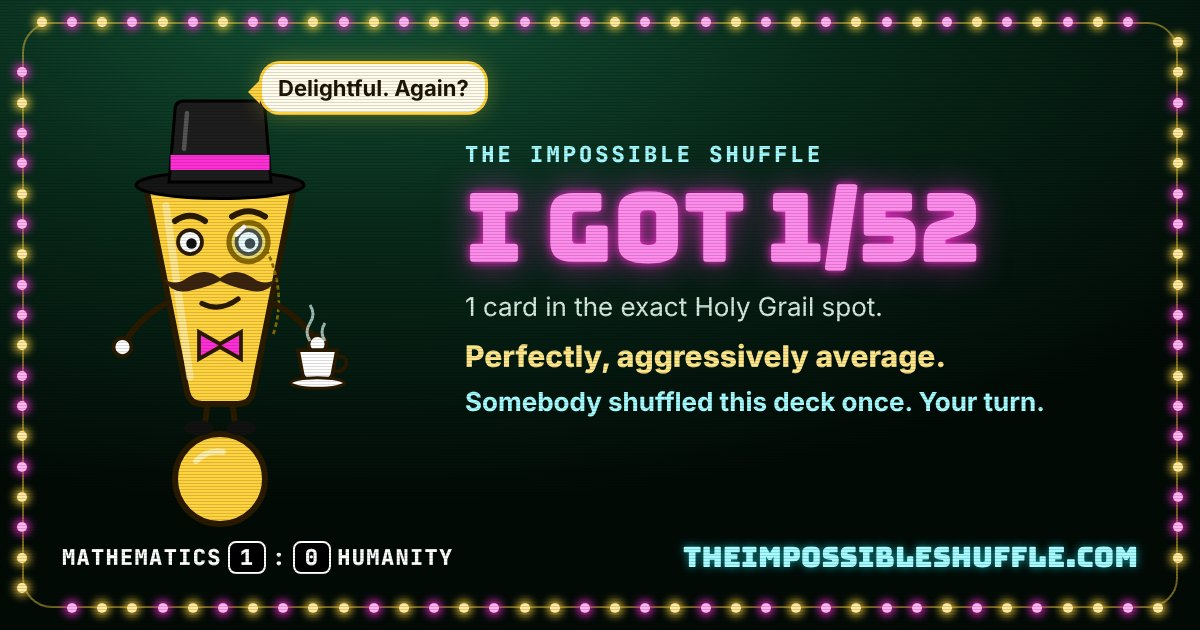
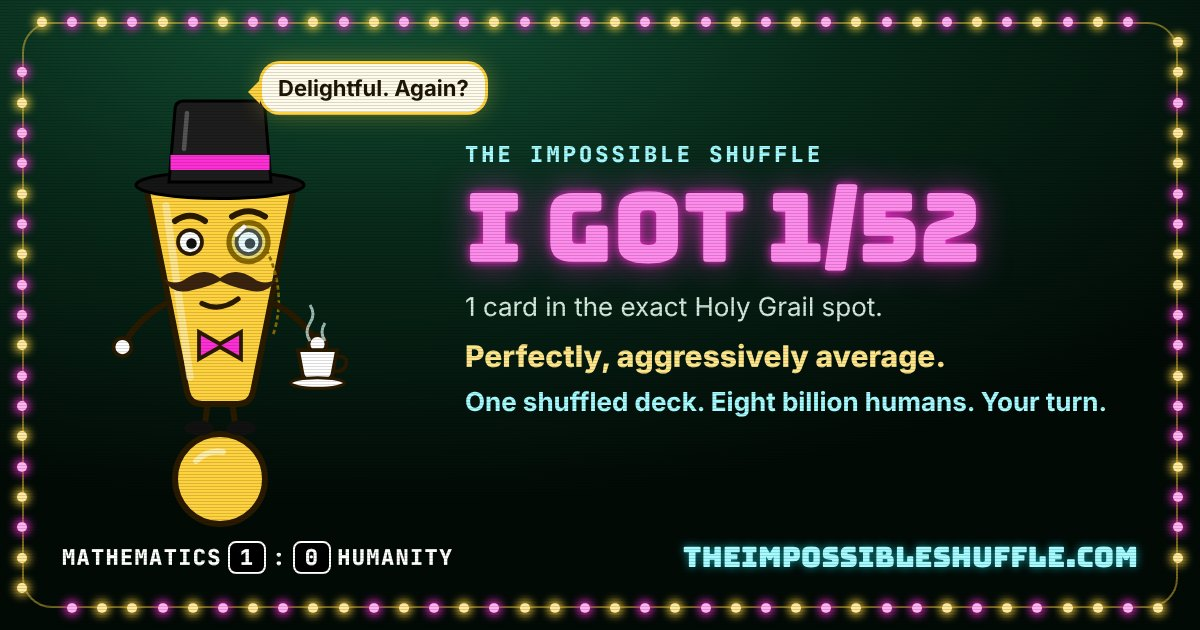
New hero line: 'One shuffled deck. Eight billion humans. One goal: shuffle it again, card for card.' (also in meta, link previews, manifest, share image and brag pages)
Claude-Session: https://claude.ai/code/session_01YJQDRu3Y672xQjHvmeDDE6

Changed region(s): [[0.37, 0.6032, 0.925, 0.6635]]

diff --git a/index.html b/index.html
@@ -4,13 +4,13 @@
 <meta charset="utf-8">
 <meta name="viewport" content="width=device-width, initial-scale=1, viewport-fit=cover">
 <title>The Impossible Shuffle</title>
-<meta name="description" content="The most impossible mission on the internet: somebody shuffled this deck once, and now humanity has to do it again, together. Odds: 1 in 52!.">
+<meta name="description" content="The most impossible mission on the internet. One shuffled deck, eight billion humans, one goal: shuffle it again, card for card. Odds: 1 in 52!.">
 <link rel="canonical" href="https://theimpossibleshuffle.com/">
 <meta name="theme-color" content="#03110a">
 <meta property="og:type" content="website">
 <meta property="og:url" content="https://theimpossibleshuffle.com/">
 <meta property="og:title" content="The Impossible Shuffle">
-<meta property="og:description" content="Somebody shuffled this deck once. Now humanity has to do it again, card for card. The odds are 1 in 52!, about 8 × 10⁶⁷. We're trying anyway.">
+<meta property="og:description" content="One shuffled deck. Eight billion humans. One goal: shuffle it again, card for card. The odds are 1 in 52!, about 8 × 10⁶⁷. Mathematics says no. We say: hold my cards.">
 <meta property="og:image" content="https://theimpossibleshuffle.com/og-image.png">
 <meta property="og:image:width" content="1200">
 <meta property="og:image:height" content="630">
@@ -18,7 +18,7 @@
 <meta name="twitter:card" content="summary_large_image">
 <meta name="twitter:image" content="https://theimpossibleshuffle.com/og-image.png">
 <meta name="twitter:title" content="The Impossible Shuffle">
-<meta name="twitter:description" content="Somebody shuffled this deck once. Now humanity has to do it again, card for card. The odds are 1 in 52!. We're trying anyway.">
+<meta name="twitter:description" content="One shuffled deck. Eight billion humans. One goal: shuffle it again, card for card. The odds are 1 in 52!. Mathematics says no. We say: hold my cards.">
 <link rel="icon" href="favicon.ico" sizes="16x16 32x32 48x48">
 <link rel="icon" type="image/png" sizes="32x32" href="favicon-32.png">
 <link rel="icon" type="image/png" sizes="16x16" href="favicon-16.png">
@@ -689,7 +689,7 @@
       <p id="phHello" class="ph-hello" hidden>👋 Welcome, Product Hunters. Your mission, should you choose to accept it: one shuffle. Mathematics expects nothing from you.</p>
       <p class="mono text-xs tracking-widest text-[#9fb5a8] mb-3">MISSION CONTROL · DEPARTMENT OF IMPOSSIBLE THINGS</p>
       <h1 class="font-display neon-pink text-[1.65rem] leading-tight sm:text-5xl lg:text-[3.4rem]">Welcome to Humankind's Most Impossible Mission</h1>
-      <p class="mt-5 max-w-4xl mx-auto text-base sm:text-lg text-[#cfe3d7]"><span class="block" style="text-wrap:balance">Somebody shuffled this deck once. Now humanity has to do it again.</span> <span class="block mt-1" style="text-wrap:balance">Mathematics says no. We say: hold my cards.</span></p>
+      <p class="mt-5 max-w-4xl mx-auto text-base sm:text-lg text-[#cfe3d7]"><span class="block" style="text-wrap:balance">One shuffled deck. Eight billion humans. One goal: shuffle it again, card for card.</span> <span class="block mt-1" style="text-wrap:balance">Mathematics says no. We say: hold my cards.</span></p>
       <button type="button" id="heroShuffle" class="shuffle-btn hero-cta mt-5"><span class="btn-main">Defy Mathematics</span><span class="btn-sub">Free · no sign-up</span></button>
       <p class="hero-trust">Odds: <b>1 in 8 × 10⁶⁷</b> per shuffle. Every shuffle is real and anyone can replay it, so even Mission Control can't fake a win.</p>
       <ol class="hero-steps" aria-label="The mission in three steps">

diff --git a/b/1/index.html b/b/1/index.html
@@ -2,20 +2,20 @@
 <html lang="en"><head><meta charset="utf-8">
 <meta name="viewport" content="width=device-width, initial-scale=1">
 <title>I got 1/52 on The Impossible Shuffle</title>
-<meta name="description" content="1 of 52 cards in their Holy Grail spot. Perfectly, aggressively average. Somebody shuffled this deck once. Now humanity has to do it again. Your turn.">
+<meta name="description" content="1 of 52 cards in their Holy Grail spot. Perfectly, aggressively average. One shuffled deck. Eight billion humans. One goal: shuffle it again, card for card. Your turn.">
 <meta name="robots" content="noindex">
 <meta property="og:type" content="website">
 <meta property="og:site_name" content="The Impossible Shuffle">
 <meta property="og:url" content="https://theimpossibleshuffle.com/b/1/">
 <meta property="og:title" content="I got 1/52 on The Impossible Shuffle">
-<meta property="og:description" content="1 of 52 cards in their Holy Grail spot. Perfectly, aggressively average. Somebody shuffled this deck once. Now humanity has to do it again. Your turn.">
+<meta property="og:description" content="1 of 52 cards in their Holy Grail spot. Perfectly, aggressively average. One shuffled deck. Eight billion humans. One goal: shuffle it again, card for card. Your turn.">
 <meta property="og:image" content="https://theimpossibleshuffle.com/b/1.jpg">
 <meta property="og:image:width" content="1200">
 <meta property="og:image:height" content="630">
 <meta property="og:image:alt" content="I got 1/52 on The Impossible Shuffle: Perfectly, aggressively average.">
 <meta name="twitter:card" content="summary_large_image">
 <meta name="twitter:title" content="I got 1/52 on The Impossible Shuffle">
-<meta name="twitter:description" content="1 of 52 cards in their Holy Grail spot. Perfectly, aggressively average. Somebody shuffled this deck once. Now humanity has to do it again. Your turn.">
+<meta name="twitter:description" content="1 of 52 cards in their Holy Grail spot. Perfectly, aggressively average. One shuffled deck. Eight billion humans. One goal: shuffle it again, card for card. Your turn.">
 <meta name="twitter:image" content="https://theimpossibleshuffle.com/b/1.jpg">
 <script>var r = /[?&]r=([a-z0-9]{8,16})/.exec(location.search); location.replace('/?ref=brag' + (r ? '&r=' + r[1] : '') + location.hash);</script>
 </head><body style="background:#03110a;color:#d7eadf;font-family:system-ui;text-align:center;padding:3rem">

diff --git a/b/2/index.html b/b/2/index.html
@@ -2,20 +2,20 @@
 <html lang="en"><head><meta charset="utf-8">
 <meta name="viewport" content="width=device-width, initial-scale=1">
 <title>I got 2/52 on The Impossible Shuffle</title>
-<meta name="description" content="2 of 52 cards in their Holy Grail spot. Mild statistical flirtation. Somebody shuffled this deck once. Now humanity has to do it again. Your turn.">
+<meta name="description" content="2 of 52 cards in their Holy Grail spot. Mild statistical flirtation. One shuffled deck. Eight billion humans. One goal: shuffle it again, card for card. Your turn.">
 <meta name="robots" content="noindex">
 <meta property="og:type" content="website">
 <meta property="og:site_name" content="The Impossible Shuffle">
 <meta property="og:url" content="https://theimpossibleshuffle.com/b/2/">
 <meta property="og:title" content="I got 2/52 on The Impossible Shuffle">
-<meta property="og:description" content="2 of 52 cards in their Holy Grail spot. Mild statistical flirtation. Somebody shuffled this deck once. Now humanity has to do it again. Your turn.">
+<meta property="og:description" content="2 of 52 cards in their Holy Grail spot. Mild statistical flirtation. One shuffled deck. Eight billion humans. One goal: shuffle it again, card for card. Your turn.">
 <meta property="og:image" content="https://theimpossibleshuffle.com/b/2.jpg">
 <meta property="og:image:width" content="1200">
 <meta property="og:image:height" content="630">
 <meta property="og:image:alt" content="I got 2/52 on The Impossible Shuffle: Mild statistical flirtation.">
 <meta name="twitter:card" content="summary_large_image">
 <meta name="twitter:title" content="I got 2/52 on The Impossible Shuffle">
-<meta name="twitter:description" content="2 of 52 cards in their Holy Grail spot. Mild statistical flirtation. Somebody shuffled this deck once. Now humanity has to do it again. Your turn.">
+<meta name="twitter:description" content="2 of 52 cards in their Holy Grail spot. Mild statistical flirtation. One shuffled deck. Eight billion humans. One goal: shuffle it again, card for card. Your turn.">
 <meta name="twitter:image" content="https://theimpossibleshuffle.com/b/2.jpg">
 <script>var r = /[?&]r=([a-z0-9]{8,16})/.exec(location.search); location.replace('/?ref=brag' + (r ? '&r=' + r[1] : '') + location.hash);</script>
 </head><body style="background:#03110a;color:#d7eadf;font-family:system-ui;text-align:center;padding:3rem">

diff --git a/b/3/index.html b/b/3/index.html
@@ -2,20 +2,20 @@
 <html lang="en"><head><meta charset="utf-8">
 <meta name="viewport" content="width=device-width, initial-scale=1">
 <title>I got 3/52 on The Impossible Shuffle</title>
-<meta name="description" content="3 of 52 cards in their Holy Grail spot. Mild statistical flirtation. Somebody shuffled this deck once. Now humanity has to do it again. Your turn.">
+<meta name="description" content="3 of 52 cards in their Holy Grail spot. Mild statistical flirtation. One shuffled deck. Eight billion humans. One goal: shuffle it again, card for card. Your turn.">
 <meta name="robots" content="noindex">
 <meta property="og:type" content="website">
 <meta property="og:site_name" content="The Impossible Shuffle">
 <meta property="og:url" content="https://theimpossibleshuffle.com/b/3/">
 <meta property="og:title" content="I got 3/52 on The Impossible Shuffle">
-<meta property="og:description" content="3 of 52 cards in their Holy Grail spot. Mild statistical flirtation. Somebody shuffled this deck once. Now humanity has to do it again. Your turn.">
+<meta property="og:description" content="3 of 52 cards in their Holy Grail spot. Mild statistical flirtation. One shuffled deck. Eight billion humans. One goal: shuffle it again, card for card. Your turn.">
 <meta property="og:image" content="https://theimpossibleshuffle.com/b/3.jpg">
 <meta property="og:image:width" content="1200">
 <meta property="og:image:height" content="630">
 <meta property="og:image:alt" content="I got 3/52 on The Impossible Shuffle: Mild statistical flirtation.">
 <meta name="twitter:card" content="summary_large_image">
 <meta name="twitter:title" content="I got 3/52 on The Impossible Shuffle">
-<meta name="twitter:description" content="3 of 52 cards in their Holy Grail spot. Mild statistical flirtation. Somebody shuffled this deck once. Now humanity has to do it again. Your turn.">
+<meta name="twitter:description" content="3 of 52 cards in their Holy Grail spot. Mild statistical flirtation. One shuffled deck. Eight billion humans. One goal: shuffle it again, card for card. Your turn.">
 <meta name="twitter:image" content="https://theimpossibleshuffle.com/b/3.jpg">
 <script>var r = /[?&]r=([a-z0-9]{8,16})/.exec(location.search); location.replace('/?ref=brag' + (r ? '&r=' + r[1] : '') + location.hash);</script>
 </head><body style="background:#03110a;color:#d7eadf;font-family:system-ui;text-align:center;padding:3rem">

diff --git a/b/6/index.html b/b/6/index.html
@@ -2,20 +2,20 @@
 <html lang="en"><head><meta charset="utf-8">
 <meta name="viewport" content="width=device-width, initial-scale=1">
 <title>I got 6/52 on The Impossible Shuffle</title>
-<meta name="description" content="6 of 52 cards in their Holy Grail spot. Statisticians are nervous. Somebody shuffled this deck once. Now humanity has to do it again. Your turn.">
+<meta name="description" content="6 of 52 cards in their Holy Grail spot. Statisticians are nervous. One shuffled deck. Eight billion humans. One goal: shuffle it again, card for card. Your turn.">
 <meta name="robots" content="noindex">
 <meta property="og:type" content="website">
 <meta property="og:site_name" content="The Impossible Shuffle">
 <meta property="og:url" content="https://theimpossibleshuffle.com/b/6/">
 <meta property="og:title" content="I got 6/52 on The Impossible Shuffle">
-<meta property="og:description" content="6 of 52 cards in their Holy Grail spot. Statisticians are nervous. Somebody shuffled this deck once. Now humanity has to do it again. Your turn.">
+<meta property="og:description" content="6 of 52 cards in their Holy Grail spot. Statisticians are nervous. One shuffled deck. Eight billion humans. One goal: shuffle it again, card for card. Your turn.">
 <meta property="og:image" content="https://theimpossibleshuffle.com/b/6.jpg">
 <meta property="og:image:width" content="1200">
 <meta property="og:image:height" content="630">
 <meta property="og:image:alt" content="I got 6/52 on The Impossible Shuffle: Statisticians are nervous.">
 <meta name="twitter:card" content="summary_large_image">
 <meta name="twitter:title" content="I got 6/52 on The Impossible Shuffle">
-<meta name="twitter:description" content="6 of 52 cards in their Holy Grail spot. Statisticians are nervous. Somebody shuffled this deck once. Now humanity has to do it again. Your turn.">
+<meta name="twitter:description" content="6 of 52 cards in their Holy Grail spot. Statisticians are nervous. One shuffled deck. Eight billion humans. One goal: shuffle it again, card for card. Your turn.">
 <meta name="twitter:image" content="https://theimpossibleshuffle.com/b/6.jpg">
 <script>var r = /[?&]r=([a-z0-9]{8,16})/.exec(location.search); location.replace('/?ref=brag' + (r ? '&r=' + r[1] : '') + location.hash);</script>
 </head><body style="background:#03110a;color:#d7eadf;font-family:system-ui;text-align:center;padding:3rem">

diff --git a/b/7/index.html b/b/7/index.html
@@ -2,20 +2,20 @@
 <html lang="en"><head><meta charset="utf-8">
 <meta name="viewport" content="width=device-width, initial-scale=1">
 <title>I got 7/52 on The Impossible Shuffle</title>
-<meta name="description" content="7 of 52 cards in their Holy Grail spot. Statisticians are nervous. Somebody shuffled this deck once. Now humanity has to do it again. Your turn.">
+<meta name="description" content="7 of 52 cards in their Holy Grail spot. Statisticians are nervous. One shuffled deck. Eight billion humans. One goal: shuffle it again, card for card. Your turn.">
 <meta name="robots" content="noindex">
 <meta property="og:type" content="website">
 <meta property="og:site_name" content="The Impossible Shuffle">
 <meta property="og:url" content="https://theimpossibleshuffle.com/b/7/">
 <meta property="og:title" content="I got 7/52 on The Impossible Shuffle">
-<meta property="og:description" content="7 of 52 cards in their Holy Grail spot. Statisticians are nervous. Somebody shuffled this deck once. Now humanity has to do it again. Your turn.">
+<meta property="og:description" content="7 of 52 cards in their Holy Grail spot. Statisticians are nervous. One shuffled deck. Eight billion humans. One goal: shuffle it again, card for card. Your turn.">
 <meta property="og:image" content="https://theimpossibleshuffle.com/b/7.jpg">
 <meta property="og:image:width" content="1200">
 <meta property="og:image:height" content="630">
 <meta property="og:image:alt" content="I got 7/52 on The Impossible Shuffle: Statisticians are nervous.">
 <meta name="twitter:card" content="summary_large_image">
 <meta name="twitter:title" content="I got 7/52 on The Impossible Shuffle">
-<meta name="twitter:description" content="7 of 52 cards in their Holy Grail spot. Statisticians are nervous. Somebody shuffled this deck once. Now humanity has to do it again. Your turn.">
+<meta name="twitter:description" content="7 of 52 cards in their Holy Grail spot. Statisticians are nervous. One shuffled deck. Eight billion humans. One goal: shuffle it again, card for card. Your turn.">
 <meta name="twitter:image" content="https://theimpossibleshuffle.com/b/7.jpg">
 <script>var r = /[?&]r=([a-z0-9]{8,16})/.exec(location.search); location.replace('/?ref=brag' + (r ? '&r=' + r[1] : '') + location.hash);</script>
 </head><body style="background:#03110a;color:#d7eadf;font-family:system-ui;text-align:center;padding:3rem">

diff --git a/b/8/index.html b/b/8/index.html
@@ -2,20 +2,20 @@
 <html lang="en"><head><meta charset="utf-8">
 <meta name="viewport" content="width=device-width, initial-scale=1">
 <title>I got 8/52 on The Impossible Shuffle</title>
-<meta name="description" content="8 of 52 cards in their Holy Grail spot. Statisticians are nervous. Somebody shuffled this deck once. Now humanity has to do it again. Your turn.">
+<meta name="description" content="8 of 52 cards in their Holy Grail spot. Statisticians are nervous. One shuffled deck. Eight billion humans. One goal: shuffle it again, card for card. Your turn.">
 <meta name="robots" content="noindex">
 <meta property="og:type" content="website">
 <meta property="og:site_name" content="The Impossible Shuffle">
 <meta property="og:url" content="https://theimpossibleshuffle.com/b/8/">
 <meta property="og:title" content="I got 8/52 on The Impossible Shuffle">
-<meta property="og:description" content="8 of 52 cards in their Holy Grail spot. Statisticians are nervous. Somebody shuffled this deck once. Now humanity has to do it again. Your turn.">
+<meta property="og:description" content="8 of 52 cards in their Holy Grail spot. Statisticians are nervous. One shuffled deck. Eight billion humans. One goal: shuffle it again, card for card. Your turn.">
 <meta property="og:image" content="https://theimpossibleshuffle.com/b/8.jpg">
 <meta property="og:image:width" content="1200">
 <meta property="og:image:height" content="630">
 <meta property="og:image:alt" content="I got 8/52 on The Impossible Shuffle: Statisticians are nervous.">
 <meta name="twitter:card" content="summary_large_image">
 <meta name="twitter:title" content="I got 8/52 on The Impossible Shuffle">
-<meta name="twitter:description" content="8 of 52 cards in their Holy Grail spot. Statisticians are nervous. Somebody shuffled this deck once. Now humanity has to do it again. Your turn.">
+<meta name="twitter:description" content="8 of 52 cards in their Holy Grail spot. Statisticians are nervous. One shuffled deck. Eight billion humans. One goal: shuffle it again, card for card. Your turn.">
 <meta name="twitter:image" content="https://theimpossibleshuffle.com/b/8.jpg">
 <script>var r = /[?&]r=([a-z0-9]{8,16})/.exec(location.search); location.replace('/?ref=brag' + (r ? '&r=' + r[1] : '') + location.hash);</script>
 </head><body style="background:#03110a;color:#d7eadf;font-family:system-ui;text-align:center;padding:3rem">

diff --git a/b/9/index.html b/b/9/index.html
@@ -2,20 +2,20 @@
 <html lang="en"><head><meta charset="utf-8">
 <meta name="viewport" content="width=device-width, initial-scale=1">
 <title>I got 9/52 on The Impossible Shuffle</title>
-<meta name="description" content="9 of 52 cards in their Holy Grail spot. Statisticians are nervous. Somebody shuffled this deck once. Now humanity has to do it again. Your turn.">
+<meta name="description" content="9 of 52 cards in their Holy Grail spot. Statisticians are nervous. One shuffled deck. Eight billion humans. One goal: shuffle it again, card for card. Your turn.">
 <meta name="robots" content="noindex">
 <meta property="og:type" content="website">
 <meta property="og:site_name" content="The Impossible Shuffle">
 <meta property="og:url" content="https://theimpossibleshuffle.com/b/9/">
 <meta property="og:title" content="I got 9/52 on The Impossible Shuffle">
-<meta property="og:description" content="9 of 52 cards in their Holy Grail spot. Statisticians are nervous. Somebody shuffled this deck once. Now humanity has to do it again. Your turn.">
+<meta property="og:description" content="9 of 52 cards in their Holy Grail spot. Statisticians are nervous. One shuffled deck. Eight billion humans. One goal: shuffle it again, card for card. Your turn.">
 <meta property="og:image" content="https://theimpossibleshuffle.com/b/9.jpg">
 <meta property="og:image:width" content="1200">
 <meta property="og:image:height" content="630">
 <meta property="og:image:alt" content="I got 9/52 on The Impossible Shuffle: Statisticians are nervous.">
 <meta name="twitter:card" content="summary_large_image">
 <meta name="twitter:title" content="I got 9/52 on The Impossible Shuffle">
-<meta name="twitter:description" content="9 of 52 cards in their Holy Grail spot. Statisticians are nervous. Somebody shuffled this deck once. Now humanity has to do it again. Your turn.">
+<meta name="twitter:description" content="9 of 52 cards in their Holy Grail spot. Statisticians are nervous. One shuffled deck. Eight billion humans. One goal: shuffle it again, card for card. Your turn.">
 <meta name="twitter:image" content="https://theimpossibleshuffle.com/b/9.jpg">
 <script>var r = /[?&]r=([a-z0-9]{8,16})/.exec(location.search); location.replace('/?ref=brag' + (r ? '&r=' + r[1] : '') + location.hash);</script>
 </head><body style="background:#03110a;color:#d7eadf;font-family:system-ui;text-align:center;padding:3rem">

diff --git a/b/52/index.html b/b/52/index.html
@@ -2,20 +2,20 @@
 <html lang="en"><head><meta charset="utf-8">
 <meta name="viewport" content="width=device-width, initial-scale=1">
 <title>I got 52/52 on The Impossible Shuffle</title>
-<meta name="description" content="52 of 52 cards in their Holy Grail spot. Humanity wins. Forever. Somebody shuffled this deck once. Now humanity has to do it again. Your turn.">
+<meta name="description" content="52 of 52 cards in their Holy Grail spot. Humanity wins. Forever. One shuffled deck. Eight billion humans. One goal: shuffle it again, card for card. Your turn.">
 <meta name="robots" content="noindex">
 <meta property="og:type" content="website">
 <meta property="og:site_name" content="The Impossible Shuffle">
 <meta property="og:url" content="https://theimpossibleshuffle.com/b/52/">
 <meta property="og:title" content="I got 52/52 on The Impossible Shuffle">
-<meta property="og:description" content="52 of 52 cards in their Holy Grail spot. Humanity wins. Forever. Somebody shuffled this deck once. Now humanity has to do it again. Your turn.">
+<meta property="og:description" content="52 of 52 cards in their Holy Grail spot. Humanity wins. Forever. One shuffled deck. Eight billion humans. One goal: shuffle it again, card for card. Your turn.">
 <meta property="og:image" content="https://theimpossibleshuffle.com/b/52.jpg">
 <meta property="og:image:width" content="1200">
 <meta property="og:image:height" content="630">
 <meta property="og:image:alt" content="I got 52/52 on The Impossible Shuffle: Humanity wins. Forever.">
 <meta name="twitter:card" content="summary_large_image">
 <meta name="twitter:title" content="I got 52/52 on The Impossible Shuffle">
-<meta name="twitter:description" content="52 of 52 cards in their Holy Grail spot. Humanity wins. Forever. Somebody shuffled this deck once. Now humanity has to do it again. Your turn.">
+<meta name="twitter:description" content="52 of 52 cards in their Holy Grail spot. Humanity wins. Forever. One shuffled deck. Eight billion humans. One goal: shuffle it again, card for card. Your turn.">
 <meta name="twitter:image" content="https://theimpossibleshuffle.com/b/52.jpg">
 <script>var r = /[?&]r=([a-z0-9]{8,16})/.exec(location.search); location.replace('/?ref=brag' + (r ? '&r=' + r[1] : '') + location.hash);</script>
 </head><body style="background:#03110a;color:#d7eadf;font-family:system-ui;text-align:center;padding:3rem">

diff --git a/b/10/index.html b/b/10/index.html
@@ -2,20 +2,20 @@
 <html lang="en"><head><meta charset="utf-8">
 <meta name="viewport" content="width=device-width, initial-scale=1">
 <title>I got 10/52 on The Impossible Shuffle</title>
-<meta name="description" content="10 of 52 cards in their Holy Grail spot. Witchcraft suspected. Somebody shuffled this deck once. Now humanity has to do it again. Your turn.">
+<meta name="description" content="10 of 52 cards in their Holy Grail spot. Witchcraft suspected. One shuffled deck. Eight billion humans. One goal: shuffle it again, card for card. Your turn.">
 <meta name="robots" content="noindex">
 <meta property="og:type" content="website">
 <meta property="og:site_name" content="The Impossible Shuffle">
 <meta property="og:url" content="https://theimpossibleshuffle.com/b/10/">
 <meta property="og:title" content="I got 10/52 on The Impossible Shuffle">
-<meta property="og:description" content="10 of 52 cards in their Holy Grail spot. Witchcraft suspected. Somebody shuffled this deck once. Now humanity has to do it again. Your turn.">
+<meta property="og:description" content="10 of 52 cards in their Holy Grail spot. Witchcraft suspected. One shuffled deck. Eight billion humans. One goal: shuffle it again, card for card. Your turn.">
 <meta property="og:image" content="https://theimpossibleshuffle.com/b/10.jpg">
 <meta property="og:image:width" content="1200">
 <meta property="og:image:height" content="630">
 <meta property="og:image:alt" content="I got 10/52 on The Impossible Shuffle: Witchcraft suspected.">
 <meta name="twitter:card" content="summary_large_image">
 <meta name="twitter:title" content="I got 10/52 on The Impossible Shuffle">
-<meta name="twitter:description" content="10 of 52 cards in their Holy Grail spot. Witchcraft suspected. Somebody shuffled this deck once. Now humanity has to do it again. Your turn.">
+<meta name="twitter:description" content="10 of 52 cards in their Holy Grail spot. Witchcraft suspected. One shuffled deck. Eight billion humans. One goal: shuffle it again, card for card. Your turn.">
 <meta name="twitter:image" content="https://theimpossibleshuffle.com/b/10.jpg">
 <script>var r = /[?&]r=([a-z0-9]{8,16})/.exec(location.search); location.replace('/?ref=brag' + (r ? '&r=' + r[1] : '') + location.hash);</script>
 </head><body style="background:#03110a;color:#d7eadf;font-family:system-ui;text-align:center;padding:3rem">

diff --git a/b/11/index.html b/b/11/index.html
@@ -2,20 +2,20 @@
 <html lang="en"><head><meta charset="utf-8">
 <meta name="viewport" content="width=device-width, initial-scale=1">
 <title>I got 11/52 on The Impossible Shuffle</title>
-<meta name="description" content="11 of 52 cards in their Holy Grail spot. Witchcraft suspected. Somebody shuffled this deck once. Now humanity has to do it again. Your turn.">
+<meta name="description" content="11 of 52 cards in their Holy Grail spot. Witchcraft suspected. One shuffled deck. Eight billion humans. One goal: shuffle it again, card for card. Your turn.">
 <meta name="robots" content="noindex">
 <meta property="og:type" content="website">
 <meta property="og:site_name" content="The Impossible Shuffle">
 <meta property="og:url" content="https://theimpossibleshuffle.com/b/11/">
 <meta property="og:title" content="I got 11/52 on The Impossible Shuffle">
-<meta property="og:description" content="11 of 52 cards in their Holy Grail spot. Witchcraft suspected. Somebody shuffled this deck once. Now humanity has to do it again. Your turn.">
+<meta property="og:description" content="11 of 52 cards in their Holy Grail spot. Witchcraft suspected. One shuffled deck. Eight billion humans. One goal: shuffle it again, card for card. Your turn.">
 <meta property="og:image" content="https://theimpossibleshuffle.com/b/11.jpg">
 <meta property="og:image:width" content="1200">
 <meta property="og:image:height" content="630">
 <meta property="og:image:alt" content="I got 11/52 on The Impossible Shuffle: Witchcraft suspected.">
 <meta name="twitter:card" content="summary_large_image">
 <meta name="twitter:title" content="I got 11/52 on The Impossible Shuffle">
-<meta name="twitter:description" content="11 of 52 cards in their Holy Grail spot. Witchcraft suspected. Somebody shuffled this deck once. Now humanity has to do it again. Your turn.">
+<meta name="twitter:description" content="11 of 52 cards in their Holy Grail spot. Witchcraft suspected. One shuffled deck. Eight billion humans. One goal: shuffle it again, card for card. Your turn.">
 <meta name="twitter:image" content="https://theimpossibleshuffle.com/b/11.jpg">
 <script>var r = /[?&]r=([a-z0-9]{8,16})/.exec(location.search); location.replace('/?ref=brag' + (r ? '&r=' + r[1] : '') + location.hash);</script>
 </head><body style="background:#03110a;color:#d7eadf;font-family:system-ui;text-align:center;padding:3rem">

diff --git a/b/12/index.html b/b/12/index.html
@@ -2,20 +2,20 @@
 <html lang="en"><head><meta charset="utf-8">
 <meta name="viewport" content="width=device-width, initial-scale=1">
 <title>I got 12/52 on The Impossible Shuffle</title>
-<meta name="description" content="12 of 52 cards in their Holy Grail spot. Witchcraft suspected. Somebody shuffled this deck once. Now humanity has to do it again. Your turn.">
+<meta name="description" content="12 of 52 cards in their Holy Grail spot. Witchcraft suspected. One shuffled deck. Eight billion humans. One goal: shuffle it again, card for card. Your turn.">
 <meta name="robots" content="noindex">
 <meta property="og:type" content="website">
 <meta property="og:site_name" content="The Impossible Shuffle">
 <meta property="og:url" content="https://theimpossibleshuffle.com/b/12/">
 <meta property="og:title" content="I got 12/52 on The Impossible Shuffle">
-<meta property="og:description" content="12 of 52 cards in their Holy Grail spot. Witchcraft suspected. Somebody shuffled this deck once. Now humanity has to do it again. Your turn.">
+<meta property="og:description" content="12 of 52 cards in their Holy Grail spot. Witchcraft suspected. One shuffled deck. Eight billion humans. One goal: shuffle it again, card for card. Your turn.">
 <meta property="og:image" content="https://theimpossibleshuffle.com/b/12.jpg">
 <meta property="og:image:width" content="1200">
 <meta property="og:image:height" content="630">
 <meta property="og:image:alt" content="I got 12/52 on The Impossible Shuffle: Witchcraft suspected.">
 <meta name="twitter:card" content="summary_large_image">
 <meta name="twitter:title" content="I got 12/52 on The Impossible Shuffle">
-<meta name="twitter:description" content="12 of 52 cards in their Holy Grail spot. Witchcraft suspected. Somebody shuffled this deck once. Now humanity has to do it again. Your turn.">
+<meta name="twitter:description" content="12 of 52 cards in their Holy Grail spot. Witchcraft suspected. One shuffled deck. Eight billion humans. One goal: shuffle it again, card for card. Your turn.">
 <meta name="twitter:image" content="https://theimpossibleshuffle.com/b/12.jpg">
 <script>var r = /[?&]r=([a-z0-9]{8,16})/.exec(location.search); location.replace('/?ref=brag' + (r ? '&r=' + r[1] : '') + location.hash);</script>
 </head><body style="background:#03110a;color:#d7eadf;font-family:system-ui;text-align:center;padding:3rem">
